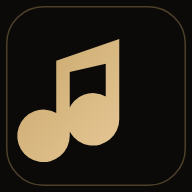
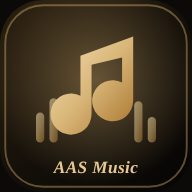
AAS Music: cara de app (ícone musical, tela de abertura, instalação)
Claude-Session: https://claude.ai/code/session_01BFWog84biPi4LGg9QbnZdP

diff --git a/music/index.html b/music/index.html
@@ -7,8 +7,12 @@
 <meta name="description" content="AAS Music: o professor monta a aula com acordes e áudio, o aluno treina em casa pelo celular.">
 <meta name="theme-color" content="#0b0a08">
 <link rel="manifest" href="manifest.webmanifest">
-<link rel="icon" href="icon.svg" type="image/svg+xml">
-<link rel="apple-touch-icon" href="icon-192.png">
+<link rel="icon" href="icon-mask.svg" type="image/svg+xml">
+<link rel="apple-touch-icon" href="apple-touch-icon.png">
+<meta name="apple-mobile-web-app-capable" content="yes">
+<meta name="mobile-web-app-capable" content="yes">
+<meta name="apple-mobile-web-app-title" content="AAS Music">
+<meta name="apple-mobile-web-app-status-bar-style" content="black-translucent">
 <link rel="preconnect" href="https://fonts.googleapis.com">
 <link rel="preconnect" href="https://fonts.gstatic.com" crossorigin>
 <link href="https://fonts.googleapis.com/css2?family=Playfair+Display:ital,wght@0,600;0,700;1,600&family=DM+Sans:wght@400;500;700&display=swap" rel="stylesheet">
@@ -116,6 +120,33 @@ footer a{color:var(--gold2);text-decoration:none}
 .pswitch{display:inline-flex;border:1px solid #c9a66b55;border-radius:999px;padding:3px;background:#c9a66b10;white-space:nowrap}
 .pswitch a{padding:7px 12px;border-radius:999px;font-weight:700;font-size:13px;color:var(--gold2);text-decoration:none}
 .pswitch a.on{background:linear-gradient(135deg,var(--gold),var(--gold2));color:#1a140a}
+.launch{text-align:center;padding:40px 0 10px}
+.appicon{position:relative;display:inline-block;border:0;background:none;padding:0;cursor:pointer;border-radius:38px;-webkit-tap-highlight-color:transparent}
+.appicon img{display:block;width:168px;height:168px;border-radius:38px;box-shadow:0 30px 80px #000c,0 0 0 1px #c9a66b44,0 0 60px #c9a66b33;transition:transform .25s}
+.appicon:hover img{transform:translateY(-4px) scale(1.03)}
+.appicon:active img{transform:scale(.96)}
+.appicon .ring{position:absolute;inset:-10px;border-radius:46px;border:2px solid #c9a66b66;animation:ring 2.6s infinite}
+@keyframes ring{0%{opacity:.9;transform:scale(.96)}100%{opacity:0;transform:scale(1.18)}}
+.eqbar{display:flex;justify-content:center;align-items:flex-end;gap:5px;height:34px;margin:22px 0 6px}
+.eqbar i{width:6px;border-radius:4px;background:linear-gradient(180deg,var(--gold2),var(--gold));animation:eq 1.1s ease-in-out infinite}
+.eqbar i:nth-child(1){animation-delay:-.2s}.eqbar i:nth-child(2){animation-delay:-.5s}.eqbar i:nth-child(3){animation-delay:-.1s}.eqbar i:nth-child(4){animation-delay:-.7s}.eqbar i:nth-child(5){animation-delay:-.3s}.eqbar i:nth-child(6){animation-delay:-.9s}.eqbar i:nth-child(7){animation-delay:-.4s}
+.eqbar.play i{animation-duration:.45s}
+@keyframes eq{0%,100%{height:8px}50%{height:32px}}
+.appname{font-size:clamp(2.6rem,9vw,4rem);margin-top:4px}
+.appsub{font-size:1.15rem;margin-top:8px}
+.feats{display:flex;justify-content:center;gap:8px;flex-wrap:wrap;margin:18px auto 8px;max-width:560px}
+.feats span{font-size:13px;font-weight:700;color:var(--gold2);background:#c9a66b12;border:1px solid #c9a66b40;border-radius:999px;padding:6px 12px}
+.tap{font-size:13px;color:var(--muted);margin-top:6px}
+.tiles{display:grid;grid-template-columns:repeat(4,1fr);gap:14px;max-width:640px;margin:30px auto 24px}
+.tile{display:flex;flex-direction:column;align-items:center;gap:6px;text-decoration:none;color:var(--cream);background:var(--panel);border:1px solid var(--line);border-radius:24px;padding:20px 8px;transition:.25s}
+.tile:hover{border-color:var(--gold);transform:translateY(-3px)}
+.tile .ti{width:58px;height:58px;border-radius:18px;display:grid;place-items:center;font-size:1.8rem;background:linear-gradient(160deg,#2a2114,#14110c);border:1px solid #c9a66b44;box-shadow:0 10px 24px #0008}
+.tile b{font-size:15px}.tile small{font-size:12px;color:var(--muted)}
+.tiles.flash .tile{animation:flash .9s}
+@keyframes flash{30%{border-color:var(--gold);box-shadow:0 0 0 3px #c9a66b44}}
+.install svg{width:18px;height:18px}
+@media(max-width:560px){.tiles{grid-template-columns:repeat(2,1fr)}.appicon img{width:140px;height:140px;border-radius:32px}}
+@media(prefers-reduced-motion:reduce){.appicon .ring,.eqbar i{animation:none}.eqbar i{height:18px}}
 .hidden{display:none!important}
 .back{background:none;border:0;color:var(--muted);font-family:var(--sans);font-size:14px;cursor:pointer;padding:0;margin-bottom:10px}
 .back:hover{color:var(--gold2)}
@@ -133,23 +164,34 @@ footer a{color:var(--gold2);text-decoration:none}
 </svg>
 
 <header><div class="wrap">
-  <a class="logo" href="./"><img src="icon.svg" alt="">AAS <em>Music</em></a>
+  <a class="logo" href="./"><img src="icon-mask.svg" alt="">AAS <em>Music</em></a>
   <div class="row"><div class="row" id="hdrUser"></div><a class="helpb" href="manual.html#professor" title="Como usar">❓<span> Como usar</span></a><nav class="pswitch" aria-label="Trocar painel"><a class="on" href="./" aria-current="page">🎓 Professor</a><a href="aluno.html">🎸 Aluno</a></nav></div>
 </div></header>
 
 <main class="wrap">
   <section id="vHome" class="hidden">
-    <div class="hero">
-      <div class="eyebrow">Aulas de violão com áudio</div>
-      <h1>O professor ensina. <em>O aluno treina em casa.</em></h1>
-      <p class="muted">O professor monta a aula com os acordes e as músicas. O aluno abre no celular, ouve e vê o acorde da vez — no ritmo dele.</p>
+    <div class="launch">
+      <button class="appicon" id="appIcon" aria-label="Abrir o AAS Music e ouvir um acorde">
+        <img src="icon-512.png" alt="Ícone do aplicativo AAS Music" width="168" height="168">
+        <span class="ring"></span>
+      </button>
+      <div class="eqbar" aria-hidden="true"><i></i><i></i><i></i><i></i><i></i><i></i><i></i></div>
+      <h1 class="appname">AAS <em>Music</em></h1>
+      <p class="appsub">🎸 Aplicativo de aulas de violão com áudio</p>
+      <div class="feats"><span>🔊 Som de violão</span><span>🎼 Acorde da vez na tela</span><span>🐢 Modo devagar</span><span>📱 Celular</span></div>
+      <p class="tap">Toque no ícone e ouça ♪</p>
+
+      <div class="tiles" id="tiles">
+        <a class="tile" href="#entrar" id="goProf"><span class="ti">🎓</span><b>Professor</b><small>Entrar ou criar conta</small></a>
+        <a class="tile" href="aluno.html"><span class="ti">🎸</span><b>Aluno</b><small>Entrar com o código</small></a>
+        <a class="tile" href="demo.html"><span class="ti">✨</span><b>Testar</b><small>Sem cadastro</small></a>
+        <a class="tile" href="manual.html"><span class="ti">📖</span><b>Como usar</b><small>Manual</small></a>
+      </div>
+
+      <button class="btn btn-gold install" id="bInstall"><svg viewBox="0 0 24 24"><path fill="currentColor" d="M12 3a1 1 0 0 1 1 1v9.6l3.3-3.3a1 1 0 1 1 1.4 1.4l-5 5a1 1 0 0 1-1.4 0l-5-5a1 1 0 1 1 1.4-1.4l3.3 3.3V4a1 1 0 0 1 1-1zM5 19h14a1 1 0 1 1 0 2H5a1 1 0 1 1 0-2z"/></svg>Instalar o app no celular</button>
+      <p class="muted" id="installHint" style="font-size:13px;margin-top:10px"></p>
     </div>
-    <div class="choose">
-      <a href="#entrar" id="goProf"><div class="ic">🎓</div><h2>Sou <em>professor</em></h2><p class="muted">Entrar ou criar conta. 7 dias grátis, depois <span data-preco></span>/mês.</p></a>
-      <a href="aluno.html"><div class="ic">🎸</div><h2>Sou <em>aluno</em></h2><p class="muted">Entrar com o código que o seu professor enviou.</p></a>
-    </div>
-    <div class="card" style="display:flex;justify-content:space-between;align-items:center;gap:14px;flex-wrap:wrap"><span><b>Professor, quer ver antes de criar conta?</b><br><span class="muted">Monte uma aula de teste agora, sem cadastro.</span></span><a class="btn btn-gold" href="demo.html">Testar sem cadastro</a></div>
-    <h2 style="margin:40px 0 14px">Planos para <em>professores</em></h2>
+    <h2 style="margin:50px 0 14px">Planos para <em>professores</em></h2>
     <div data-planos></div>
   </section>
 
@@ -586,6 +628,25 @@ $('bAdmAdd').addEventListener('click',async function(){
 });
 $('bAdmRefresh').addEventListener('click',loadAdmin);
 
+
+/* ---------- tela de abertura (app) ---------- */
+$('appIcon').addEventListener('click',function(){
+  A.stopAll();var eq=document.querySelector('.eqbar');eq.classList.add('play');
+  var segs=[{c:'G',b:2,line:0,part:''},{c:'D',b:2,line:0,part:''},{c:'Em',b:2,line:0,part:''},{c:'C',b:4,line:0,part:''}];
+  A.play(segs,{style:'pop',bpm:110,count:false,onEnd:function(){eq.classList.remove('play');}});
+  var t=$('tiles');t.classList.remove('flash');void t.offsetWidth;t.classList.add('flash');
+  setTimeout(function(){t.scrollIntoView({behavior:'smooth',block:'center'});},300);
+});
+var deferredInstall=null;
+addEventListener('beforeinstallprompt',function(e){e.preventDefault();deferredInstall=e;});
+var standalone=matchMedia('(display-mode: standalone)').matches||navigator.standalone;
+if(standalone) $('bInstall').classList.add('hidden');
+$('bInstall').addEventListener('click',async function(){
+  if(deferredInstall){deferredInstall.prompt();var r=await deferredInstall.userChoice;deferredInstall=null;if(r.outcome==='accepted')toast('App instalado! Procure o ícone AAS Music no seu celular.');return;}
+  var ios=/iphone|ipad|ipod/i.test(navigator.userAgent);
+  $('installHint').innerHTML=ios?'No iPhone: toque em <b>Compartilhar</b> (□↑) e depois em <b>Adicionar à Tela de Início</b>.':'No Chrome: toque nos <b>três pontinhos ⋮</b> e em <b>Instalar app</b> ou <b>Adicionar à tela inicial</b>.';
+});
+if('serviceWorker' in navigator){addEventListener('load',function(){navigator.serviceWorker.register('sw.js').catch(function(){});});}
 start();
 })();
 </script>

diff --git a/music/demo.html b/music/demo.html
@@ -7,7 +7,7 @@
 <meta name="description" content="Teste o AAS Music sem cadastro: monte uma aula de violão para o seu aluno e envie pelo WhatsApp.">
 <meta name="theme-color" content="#0b0a08">
 <link rel="manifest" href="manifest.webmanifest">
-<link rel="icon" href="icon.svg" type="image/svg+xml">
+<link rel="icon" href="icon-mask.svg" type="image/svg+xml">
 <link rel="preconnect" href="https://fonts.googleapis.com">
 <link rel="preconnect" href="https://fonts.gstatic.com" crossorigin>
 <link href="https://fonts.googleapis.com/css2?family=Playfair+Display:ital,wght@0,600;0,700;1,600&family=DM+Sans:wght@400;500;700&display=swap" rel="stylesheet">
@@ -117,7 +117,7 @@ footer a{color:var(--gold2)}
 </svg>
 
 <header><div class="wrap">
-  <a class="logo" href="./"><img src="icon.svg" alt="">AAS <em>Music</em></a>
+  <a class="logo" href="./"><img src="icon-mask.svg" alt="">AAS <em>Music</em></a>
   <div class="row" style="flex-wrap:nowrap"><a class="helpb" href="manual.html#professor" title="Como usar">❓<span> Como usar</span></a><nav class="pswitch" aria-label="Trocar painel"><a class="on" href="demo.html" aria-current="page">🎓 Professor</a><a href="aluno.html" id="toAluno">🎸 Aluno</a></nav></div>
 </div></header>
 

diff --git a/music/manual.html b/music/manual.html
@@ -6,7 +6,7 @@
 <title>Como usar · AAS Music</title>
 <meta name="description" content="Manual do AAS Music: como o professor monta e envia as aulas e como o aluno estuda pelo celular.">
 <meta name="theme-color" content="#0b0a08">
-<link rel="icon" href="icon.svg" type="image/svg+xml">
+<link rel="icon" href="icon-mask.svg" type="image/svg+xml">
 <link rel="preconnect" href="https://fonts.googleapis.com">
 <link rel="preconnect" href="https://fonts.gstatic.com" crossorigin>
 <link href="https://fonts.googleapis.com/css2?family=Playfair+Display:ital,wght@0,600;0,700;1,600&family=DM+Sans:wght@400;500;700&display=swap" rel="stylesheet">
@@ -69,7 +69,7 @@ footer{border-top:1px solid var(--line);padding:30px 0 40px;color:var(--muted);f
 </head>
 <body>
 <header><div class="wrap">
-  <a class="logo" href="./"><img src="icon.svg" alt="">AAS <em>Music</em></a>
+  <a class="logo" href="./"><img src="icon-mask.svg" alt="">AAS <em>Music</em></a>
   <a class="back" id="back" href="./">← Voltar ao app</a>
 </div></header>
 

diff --git a/music/sw.js b/music/sw.js
@@ -1,0 +1,10 @@
+/* AAS Music — service worker: rede primeiro, cópia local se estiver sem internet */
+const CACHE='aasmusic-v1';
+const SHELL=['./','index.html','aluno.html','demo.html','manual.html','engine.js','config.js','planos.js','icon.svg','icon-mask.svg','icon-192.png','icon-512.png','manifest.webmanifest'];
+self.addEventListener('install',e=>{e.waitUntil(caches.open(CACHE).then(c=>c.addAll(SHELL)).catch(()=>{}));self.skipWaiting();});
+self.addEventListener('activate',e=>{e.waitUntil(caches.keys().then(ks=>Promise.all(ks.filter(k=>k!==CACHE).map(k=>caches.delete(k)))).then(()=>self.clients.claim()));});
+self.addEventListener('fetch',e=>{
+  const u=new URL(e.request.url);
+  if(e.request.method!=='GET'||u.origin!==location.origin) return;
+  e.respondWith(fetch(e.request).then(r=>{if(r.ok){const cp=r.clone();caches.open(CACHE).then(c=>c.put(e.request,cp));}return r;}).catch(()=>caches.match(e.request,{ignoreSearch:true}).then(r=>r||caches.match('./'))));
+});

diff --git a/music/aluno.html b/music/aluno.html
@@ -7,8 +7,8 @@
 <meta name="robots" content="noindex">
 <meta name="theme-color" content="#fbf7f0">
 <link rel="manifest" href="manifest.webmanifest">
-<link rel="icon" href="icon.svg" type="image/svg+xml">
-<link rel="apple-touch-icon" href="icon-192.png">
+<link rel="icon" href="icon-mask.svg" type="image/svg+xml">
+<link rel="apple-touch-icon" href="apple-touch-icon.png">
 <link rel="preconnect" href="https://fonts.googleapis.com">
 <link rel="preconnect" href="https://fonts.gstatic.com" crossorigin>
 <link href="https://fonts.googleapis.com/css2?family=Atkinson+Hyperlegible:wght@400;700&family=Lora:ital,wght@0,600;1,600&display=swap" rel="stylesheet">
